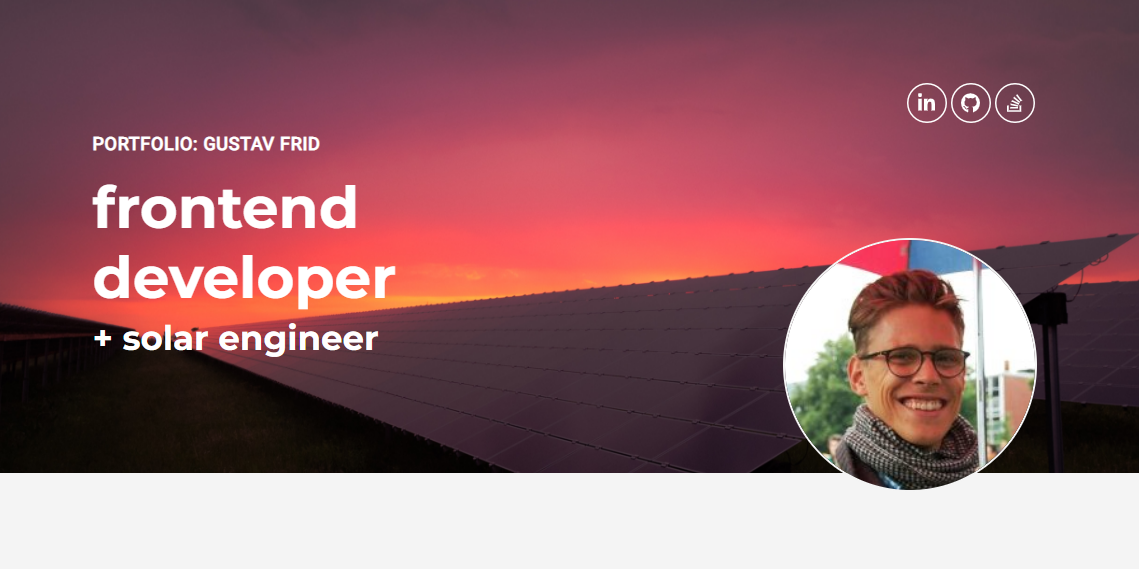
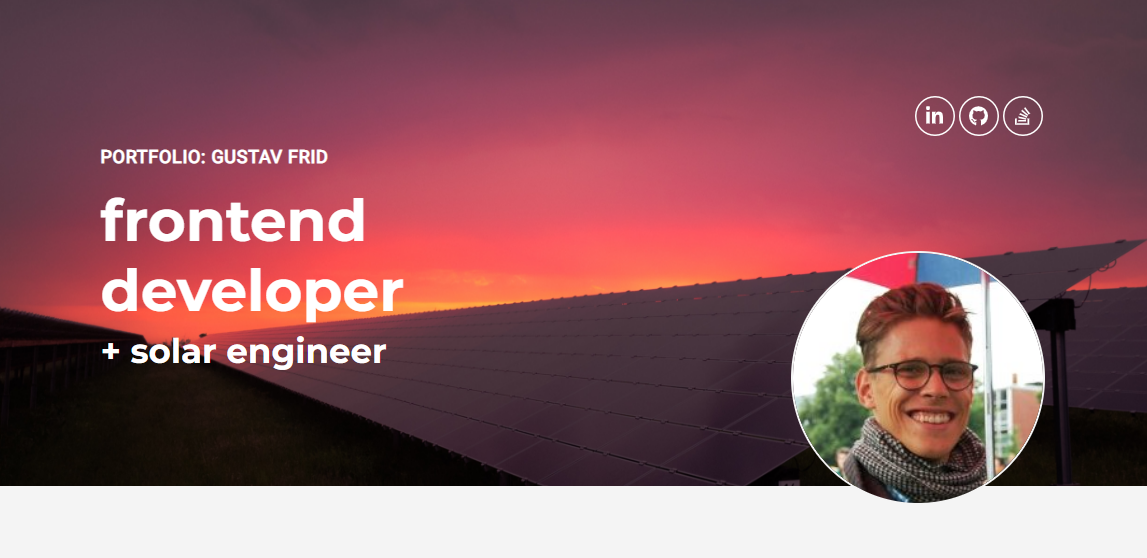
update content

Changed region(s): [[0.0, 0.2133, 1.0, 0.914], [0.7989, 0.1523, 0.9219, 0.2437], [0.3995, 0.457, 0.4609, 0.4875]]

diff --git a/index.html b/index.html
@@ -78,13 +78,13 @@
 
     <section class="portfolio-section">
       <div class="container">
-        <p class="intro-paragraph">
+        <p class="paragraph">
           <span class="line"></span>
           <span class="dot"></span>
           Hello, I'm a fontend developer and solar engineer. I love the problem solving, creativity
           and constant learning that it means to be a fontend developer. My love for coding comes
           from the ability to create something with just a few lines of code but also that the norm
-          is to share and spread you knowlege.
+          is to share and spread your knowlege.
         </p>
       </div>
     </section>
@@ -94,7 +94,7 @@
         <div class="portfolio-heading-container">
           <h2 class="portfolio-heading">tech</h2>
         </div>
-        <p class="tech-paragraph">
+        <p class="paragraph center-align">
           HTML, CSS, Flexbox, JavaScript, ES6, JSX, React, React Hooks, Redux, Node.js, Mongo DB,
           Typescript Web Accessibility, API:s, mob-programming, pair-programming, Github.
         </p>
@@ -109,6 +109,33 @@
 
         <div class="featured-proj-container">
           <article>
+            <a href="https://solproj.netlify.app/">
+              <div class="image-container">
+                <div class="overlay"><h3 class="overlay-heading">Solar energy calulator</h3></div>
+                <img class="image" src="./assets/images/solproj.png" alt="project image" />
+              </div>
+            </a>
+            <div>
+              <h4 class="sub-heading">solar calculator</h4>
+              <p class="project-description">
+                An app where users can lookup an adress, mark a roof and generate a solar energy
+                calculation based on the roof size, inclination and direction.
+                <a href="https://github.com/gustavfrid/project-solproj">&lt/&gt</a>
+              </p>
+              <div class="tag-container">
+                <span class="tag">React.js</span>
+                <span class="tag">Redux</span>
+                <span class="tag">Charts</span>
+                <span class="tag">Node.js</span>
+                <span class="tag">Express.js</span>
+                <span class="tag">Mongodb</span>
+                <span class="tag">Mapbox</span>
+                <span class="tag">APIs</span>
+              </div>
+            </div>
+          </article>
+
+          <article>
             <a href="https://gustav-week7-github-tracker.netlify.app">
               <div class="image-container">
                 <div class="overlay"><h3 class="overlay-heading">github tracker</h3></div>
@@ -116,7 +143,7 @@
               </div>
             </a>
             <div>
-              <h4 class="red-heading">github tracker built using github api.</h4>
+              <h4 class="sub-heading">github tracker built using github api.</h4>
               <p class="project-description">
                 Responsive web site using HTML, CSS and JavaScript ES6 displaying Technigo project
                 progress.
@@ -139,7 +166,7 @@
               </div>
             </a>
             <div>
-              <h4 class="red-heading">the classic guess who game.</h4>
+              <h4 class="sub-heading">the classic guess who game.</h4>
               <p class="project-description">
                 Responsive web site using HTML, CSS and JavaScript ES6 for the game "Guess Who".
                 <a href="https://github.com/gustavfrid/project-guess-who">&lt/&gt</a>
@@ -160,7 +187,7 @@
               </div>
             </a>
             <div>
-              <h4 class="red-heading">a weather app using open weather map.</h4>
+              <h4 class="sub-heading">a weather app using open weather map.</h4>
               <p class="project-description">
                 Responsive web site using HTML, CSS, JavaScript ES6 and Open Weather Map API for a
                 weather app.
@@ -181,7 +208,7 @@
         <div class="other-proj-container">
           <article>
             <div>
-              <h4 class="red-heading inline-heading">chat bot built in javascript.</h4>
+              <h4 class="sub-heading inline-heading">chat bot built in javascript.</h4>
               <p class="project-description inline-heading">
                 Responsive web site using HTML, CSS and JavaScript ES6 for pizza orders.
                 <span class="read-more-link">
@@ -198,7 +225,7 @@
 
           <article>
             <div>
-              <h4 class="red-heading inline-heading">chat bot built in javascript.</h4>
+              <h4 class="sub-heading inline-heading">chat bot built in javascript.</h4>
               <p class="project-description inline-heading">
                 Responsive web site using HTML, CSS and JavaScript ES6 for pizza orders.
                 <span class="read-more-link">

diff --git a/src/style.css b/src/style.css
@@ -1,14 +1,17 @@
 :root {
-  --primary-color: rgb(254, 90, 89);
-  --tag-color: #fddfe7;
+  --primary-color: rgb(255, 153, 0);
+  --tag-color: #fcb470;
   --tag-text-color: #000000;
+  --social-ring-size: 40px;
+  --font-size: 20px;
+  --line-height: 29px;
 }
 
 .body {
   margin: 0;
 }
 
-/* Styling the header */
+/* HEADER */
 .header {
   background-image: url('/assets/images/hero_1.jpg');
   background-size: cover;
@@ -17,12 +20,11 @@
 .header-container {
   display: flex;
   flex-direction: column;
-  /* gap: 10px; */
 }
 .social-img-container {
   display: flex;
   justify-content: flex-end;
-  height: 40px;
+  height: var(--social-ring-size);
 }
 .social-img {
   position: relative;
@@ -34,8 +36,7 @@
 }
 /* to fix firefox style */
 .social-small {
-  width: 40px;
-  height: 40px;
+  width: var(--social-ring-size);
 }
 .social-img-ring {
   position: relative;
@@ -79,6 +80,7 @@
 .header-text-description2 {
   font-size: 24px;
   line-height: 40px;
+  color: #ffffff;
 }
 
 .profile-pic-container {
@@ -107,6 +109,10 @@
   padding: 40px 0;
 }
 
+.center-align {
+  text-align: center;
+}
+
 .portfolio-heading-container {
   display: flex;
   justify-content: center;
@@ -117,8 +123,7 @@
   color: #fff;
   text-align: center;
   text-transform: uppercase;
-  padding: 0 3px;
-
+  padding: 0 10px;
   font-family: Montserrat;
   font-style: normal;
   font-weight: 700;
@@ -147,15 +152,18 @@
   flex-wrap: wrap;
 }
 
-/* INTRO SECTION */
-
-.intro-paragraph {
+.paragraph {
   font-family: Montserrat;
-  font-size: 24px;
-  line-height: 32px;
+  font-size: var(--font-size);
+  line-height: var(--line-height);
   display: inline-block;
-  /* padding: 49px 0 43px 0; */
 }
+
+.social-icon {
+  fill: var(--primary-color);
+}
+
+/* INTRO SECTION */
 
 .line {
   border: 1px solid var(--primary-color);
@@ -172,16 +180,6 @@
   border-radius: 50%;
   display: inline-block;
   margin-left: -10px;
-}
-
-/* TECH SECTION */
-
-.tech-paragraph {
-  font-family: Montserrat;
-  font-size: 17px;
-  line-height: 29px;
-  text-align: center;
-  display: inline-block;
 }
 
 /* FEATURED PROJECTS SECTION */
@@ -203,12 +201,14 @@
   left: 0;
   bottom: 0;
   background: rgba(156, 166, 197, 0.5);
+  transition: 0.5s ease;
   display: flex;
   align-items: center;
+  text-align: center;
   justify-content: center;
 }
 .overlay:hover {
-  background: rgba(156, 166, 197, 0.8);
+  background: rgba(156, 166, 197, 0);
 }
 
 .overlay-heading {
@@ -220,10 +220,11 @@
   line-height: 34px;
   letter-spacing: 0.01em;
   color: #ffffff;
+  transition: 0.5s ease;
 }
 
 .overlay:hover .overlay-heading {
-  color: var(--tag-color);
+  color: #ffffff00;
 }
 
 .image {
@@ -237,13 +238,13 @@
   gap: 20px;
 }
 
-.red-heading {
+.sub-heading {
   text-transform: uppercase;
   font-family: Roboto;
   font-style: normal;
   font-weight: bold;
-  font-size: 17px;
-  line-height: 29px;
+  font-size: var(--font-size);
+  line-height: var(--line-height);
   color: var(--primary-color);
   margin-bottom: 0;
 }
@@ -256,8 +257,8 @@
   font-family: Roboto;
   font-style: normal;
   font-weight: normal;
-  font-size: 17px;
-  line-height: 29px;
+  font-size: var(--font-size);
+  line-height: var(--line-height);
   margin: 0 0 10px 0;
 }
 
@@ -271,11 +272,12 @@
   font-family: Roboto;
   font-style: normal;
   font-weight: normal;
-  font-size: 9px;
+  font-size: 12px;
   line-height: 11px;
   letter-spacing: 0.01em;
   color: var(--tag-text-color);
   background: var(--tag-color);
+  border-radius: 3px;
   padding: 7px;
 }
 
@@ -316,9 +318,8 @@
   text-align: center;
   font-family: Roboto;
   font-style: normal;
-
-  font-size: 17px;
-  line-height: 29px;
+  font-size: var(--font-size);
+  line-height: var(--line-height);
 }
 
 /* FOR MORE SECTION */
@@ -333,7 +334,7 @@
 /* FOOTER */
 
 .footer {
-  background: #072bce;
+  background: var(--primary-color);
   font-family: Montserrat;
   text-align: center;
   color: #ffffff;
@@ -362,7 +363,6 @@
     display: grid;
     grid-template-columns: 50% 1fr;
     grid-template-rows: 40px 50% 1fr;
-    /* gap: 10px; */
   }
   .social-img-container {
     grid-column: 2;
